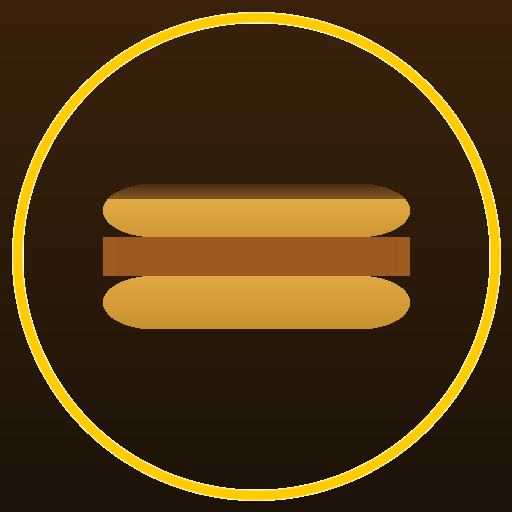
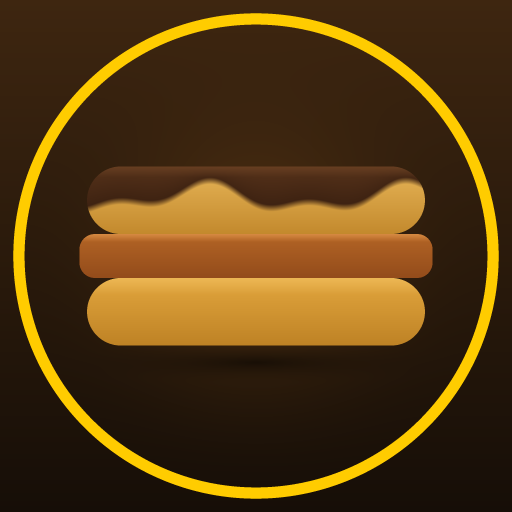
Mejora los iconos de instalacion y agrega .gitattributes
Iconos:
- Rehechos con supersampling 4x4: bordes suaves en vez de dentados,
  degradados, bano de chocolate chorreado y sombra de apoyo.
- Version maskable aparte, sin el aro dorado y con el alfajor mas chico:
  Android recorta hasta el 20% del borde y el aro quedaba cortado.
- apple-touch-icon de 180x180 para iOS.
- Los cuatro se cachean en el service worker.

.gitattributes: normaliza los saltos de linea (LF en el repo, CRLF al
revisar en Windows) para que abrir el proyecto en otra maquina no marque
todos los archivos como modificados. Los binarios quedan excluidos.

Changed region(s): [[0.1562, 0.3125, 0.8438, 0.6875], [0.0, 0.0, 1.0, 1.0]]

diff --git a/index.html b/index.html
@@ -10,8 +10,9 @@
   <meta name="apple-mobile-web-app-status-bar-style" content="black-translucent" />
   <meta name="apple-mobile-web-app-title" content="Alfajores" />
   <link rel="manifest" href="manifest.json" />
-  <link rel="icon" href="icons/icon-192.png" />
-  <link rel="apple-touch-icon" href="icons/icon-192.png" />
+  <link rel="icon" type="image/png" sizes="192x192" href="icons/icon-192.png" />
+  <link rel="icon" type="image/png" sizes="512x512" href="icons/icon-512.png" />
+  <link rel="apple-touch-icon" sizes="180x180" href="icons/apple-touch-icon.png" />
   <title>Alfajores Maite ❤🍫</title>
   <!-- Aplica el tema guardado antes de pintar: si no, arranca oscuro y parpadea. -->
   <script>

diff --git a/service-worker.js b/service-worker.js
@@ -21,7 +21,9 @@ const ASSETS = [
   './js/estadisticas.js',
   './js/reportes.js',
   './icons/icon-192.png',
-  './icons/icon-512.png'
+  './icons/icon-512.png',
+  './icons/icon-maskable-512.png',
+  './icons/apple-touch-icon.png'
 ];
 
 self.addEventListener('install', e => {
